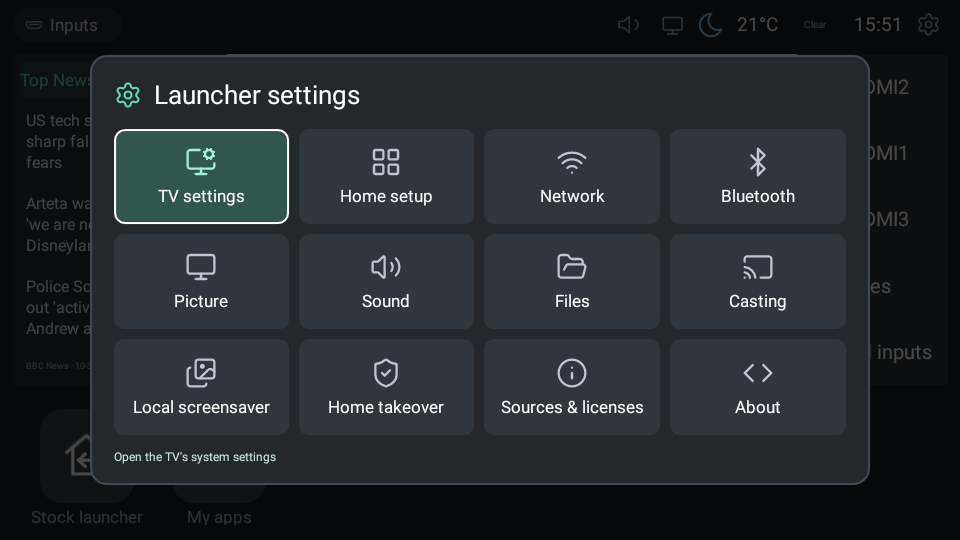
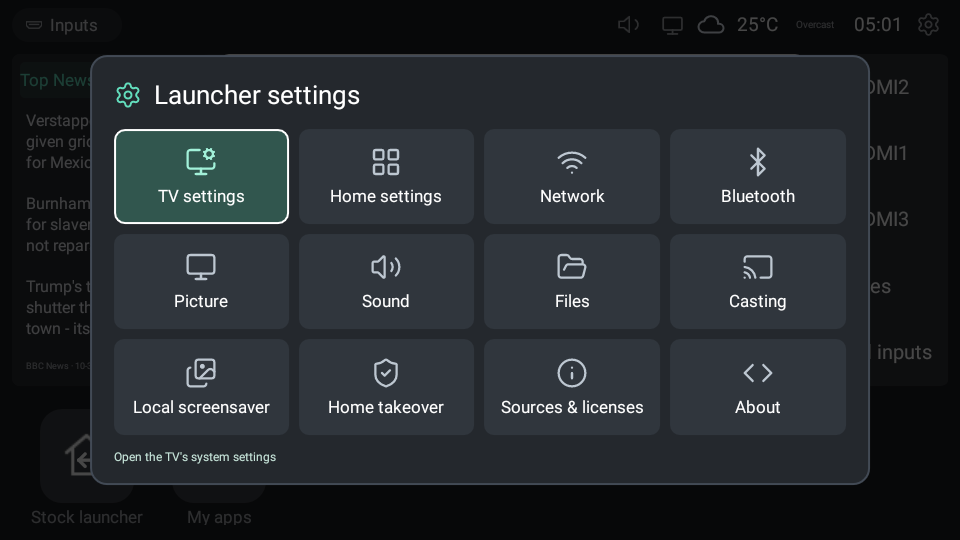
fix(i18n): align Home wording with Android launcher conventions
AOSP/Pixel call the home-screen customization page "Home settings",
and Chrome's shortcut toast says "Added to home screen"; adopt both.
Keep "Home takeover" for the accessibility-based mechanism: it names
the Home-button interception, not launcher replacement, and matches
the Chinese "Home 接管" naming.

Also sync README.en.md with the current UI terms (Launcher settings,
Home settings, My apps, Stock launcher button, Read article) and
refresh the English settings screenshot taken on the API 23 emulator.

diff --git a/README.en.md b/README.en.md
@@ -2,9 +2,9 @@
 
 [简体中文](README.md) | **English**
 
-A lightweight, open-source home screen for **Xiaomi TV / Mi TV**: keep your favorite apps, input shortcuts and TV settings, with weather, news and a local photo screensaver. Written in native Java under the MIT License; installed over ADB with no root and no modification or replacement of factory APKs. Home takeover is reversible at any time, and the factory launcher always remains available.
+A lightweight, open-source home screen for **Xiaomi TV / Mi TV**: keep your favorite apps, input shortcuts and TV settings, with weather, news and a local photo screensaver. Written in native Java under the MIT License; installed over ADB with no root and no modification or replacement of factory APKs. Home takeover is reversible at any time, and the stock launcher always remains available.
 
-The interface aims to preserve the factory launcher's navigation layout and familiar remote controls: a status bar at the top, input preview and shortcuts in the center, and an app dock below. News and weather can each be hidden for a minimal home screen with familiar navigation.
+The interface aims to preserve the stock launcher's navigation layout and familiar remote controls: a status bar at the top, input preview and shortcuts in the center, and an app dock below. News and weather can each be hidden for a minimal home screen with familiar navigation.
 
 New users can start with the [quick-start guide (Chinese)](docs/quick-start.md): enable wireless ADB on the TV and hand the rest to an agent. Development entry point for agents: [AGENTS.md](AGENTS.md).
 
@@ -24,15 +24,15 @@ See [THIRD_PARTY_NOTICES.md](THIRD_PARTY_NOTICES.md) for screenshot provenance a
 
 - Move with the directional pad and open with OK; select the input preview to open the factory full-screen source (the tested firmware registers TvInputInfo only for HDMI3; HDMI1/2 go through the factory player entry).
 - Menu or the top-right rounded gear opens the settings grid; TV settings is the first tile. Back or Menu dismisses it; the bottom-right About tile shows the project name, version and source repository.
-- “Desktop settings → Home configuration → Choose home apps” picks the apps shown; “My Apps” is always kept and lists installed apps. Hold a home app to enter move mode, use Left/Right repeatedly, then OK to save or Back to cancel. Leaving the desktop also cancels an unsaved move. Uncheck an app in the picker, or hold it in “My Apps”, to remove its shortcut without uninstalling it.
-- “Home configuration → Input names” names HDMI1/2/3 locally (up to 8 characters); holding a home HDMI entry also opens its editor. The sidebar keeps the port number below the name, and the preview title shows e.g. “Game console · HDMI1”. Leave the name empty or choose “Restore default” to use the port name. These labels do not change system input settings or automatically identify devices.
-- “Home configuration → Appearance and content” opens a dedicated page with controls on the left and a local home mock preview on the right. Choose charcoal, navy or forest backgrounds; standard or larger news headlines, app and shortcut names; and white-outline or soft-fill home focus. Use the D-pad and OK to preview choices, then “Apply to home” to save. Back, Menu or Cancel discards unsaved changes. Defaults retain the original appearance; the preview does not request news, weather or video.
+- “Launcher settings → Home settings → Choose home screen apps” picks the apps shown; “My apps” is always kept and lists installed apps. Hold a home app to enter move mode, use Left/Right repeatedly, then OK to save or Back to cancel. Leaving the desktop also cancels an unsaved move. Uncheck an app in the picker, or hold it in “My apps”, to remove its shortcut without uninstalling it.
+- “Home settings → Input names” names HDMI1/2/3 locally (up to 8 characters); holding a home HDMI entry also opens its editor. The sidebar keeps the port number below the name, and the preview title shows e.g. “Game console · HDMI1”. Leave the name empty or choose “Restore default” to use the port name. These labels do not change system input settings or automatically identify devices.
+- “Home settings → Appearance & content” opens a dedicated page with controls on the left and a local home mock preview on the right. Choose charcoal, navy or forest backgrounds; standard or larger news headlines, app and shortcut names; and white-outline or soft-fill home focus. Use the D-pad and OK to preview choices, then “Apply to home” to save. Back, Menu or Cancel discards unsaved changes. Defaults retain the original appearance; the preview does not request news, weather or video.
 - The same page has independent “Show news” and “Show weather” switches, both on by default. Hiding news centers the 16:9 preview and input shortcuts together without stretching the preview; hiding weather moves the status icons toward the clock. Hidden modules stop starting automatic refresh requests. Cached content and weather location preferences remain available when re-enabled.
 - Input shortcuts start in HDMI1, HDMI2, HDMI3, Files, All order. Opening an HDMI input moves it to the top and remembers the order across restarts; the other HDMI entries retain their relative order. Files and All stay at the bottom. Moving focus only changes the preview, without reordering.
 - The interface follows the TV's system language: English uses English UI and English news publishers; Chinese and other languages use the Chinese default and its Chinese publishers. No separate launcher language setting is needed. App names and custom HDMI labels retain their original text, and each edition keeps its own news cache.
-- The bottom “factory launcher” button pauses takeover and opens the factory launcher; explicitly reopening MiTV Quiet Launcher resumes the previous takeover state.
+- The bottom “Stock launcher” button pauses takeover and opens the stock launcher; explicitly reopening MiTV Quiet Launcher resumes the previous takeover state.
 - The weather bar shows Celsius, a short description and an icon, without the city; OK refreshes the weather and opens Xiaomi Weather; hold to choose a location, network locating or refresh now.
-- News has six categories (English UI: Top News, World, Finance, Science, Gaming, AI; Chinese UI: China, World, Finance, Tech, Games, AI), switched with Left/Right; headlines open summaries with paging. “Read” in a summary opens a TV-friendly reader in the system WebView: scripts disabled, directional scrolling, adjustable text size, retry after network failures. Sources whose article pages are too heavy or bot-gated (BBC News, MarketWatch, Phys.org) show the feed summary without a reader button; the others use source summaries or extracted bodies.
+- News has six categories (English UI: Top News, World, Finance, Science, Gaming, AI; Chinese UI: China, World, Finance, Tech, Games, AI), switched with Left/Right; headlines open summaries with paging. “Read article” in a summary opens a TV-friendly reader in the system WebView: scripts disabled, directional scrolling, adjustable text size, retry after network failures. Sources whose article pages are too heavy or bot-gated (BBC News, MarketWatch, Phys.org) show the feed summary without a reader button; the others use source summaries or extracted bodies.
 - Weather refreshes about every 15 minutes and the active news category every 10 minutes; stale weather shows “--” and failed news updates keep cached items marked. Science news keeps 7 days, other categories 48 hours.
 
 ## Home takeover
@@ -43,7 +43,7 @@ The tested firmware has no standard accessibility settings page; enable or resto
 python tools/enable_home.py --serial TV_SERIAL --expected-model MODEL
 ```
 
-The tool backs up existing accessibility grants, enables this project's Home bridge service and verifies the actual binding; it also grants GET_USAGE_STATS to this app only, covering firmware that does not emit factory-Home window events. The bridge matches only the factory main home page — it does not read screen content or save usage history, and factory settings, the player and other sub-pages are unaffected.
+The tool backs up existing accessibility grants, enables this project's Home bridge service and verifies the actual binding; it also grants GET_USAGE_STATS to this app only, covering firmware that does not emit window events for the stock home page. The bridge matches only the stock launcher's main home page — it does not read screen content or save usage history, and the stock launcher's settings, the player and other sub-pages are unaffected.
 
 ## Local photo screensaver
 
@@ -93,13 +93,13 @@ adb -s TV_SERIAL shell am start -W -n local.mitv.launcher/.MainActivity
 
 ## Recovery
 
-The bottom “factory launcher” button returns to the factory home; full recovery and takeover revocation from a computer:
+The bottom “Stock launcher” button returns to the stock launcher; full recovery and takeover revocation from a computer:
 
 ```powershell
 powershell -NoProfile -ExecutionPolicy Bypass -File tools/restore_tv.ps1 -Serial TV_SERIAL -ExpectedModel MODEL
 ```
 
-The script disables the Home bridge through the app's own recovery entry and returns to the factory launcher, removing only this project's accessibility entry and GET_USAGE_STATS grant; factory packages are untouched. Add `-EnableNewLauncher` to just open the launcher, and run `enable_home.py` again to re-enable takeover. A reboot may turn network ADB off — re-enable it in the TV settings.
+The script disables the Home bridge through the app's own recovery entry and returns to the stock launcher, removing only this project's accessibility entry and GET_USAGE_STATS grant; factory packages are untouched. Add `-EnableNewLauncher` to just open the launcher, and run `enable_home.py` again to re-enable takeover. A reboot may turn network ADB off — re-enable it in the TV settings.
 
 ## Adjust the news sources
 
